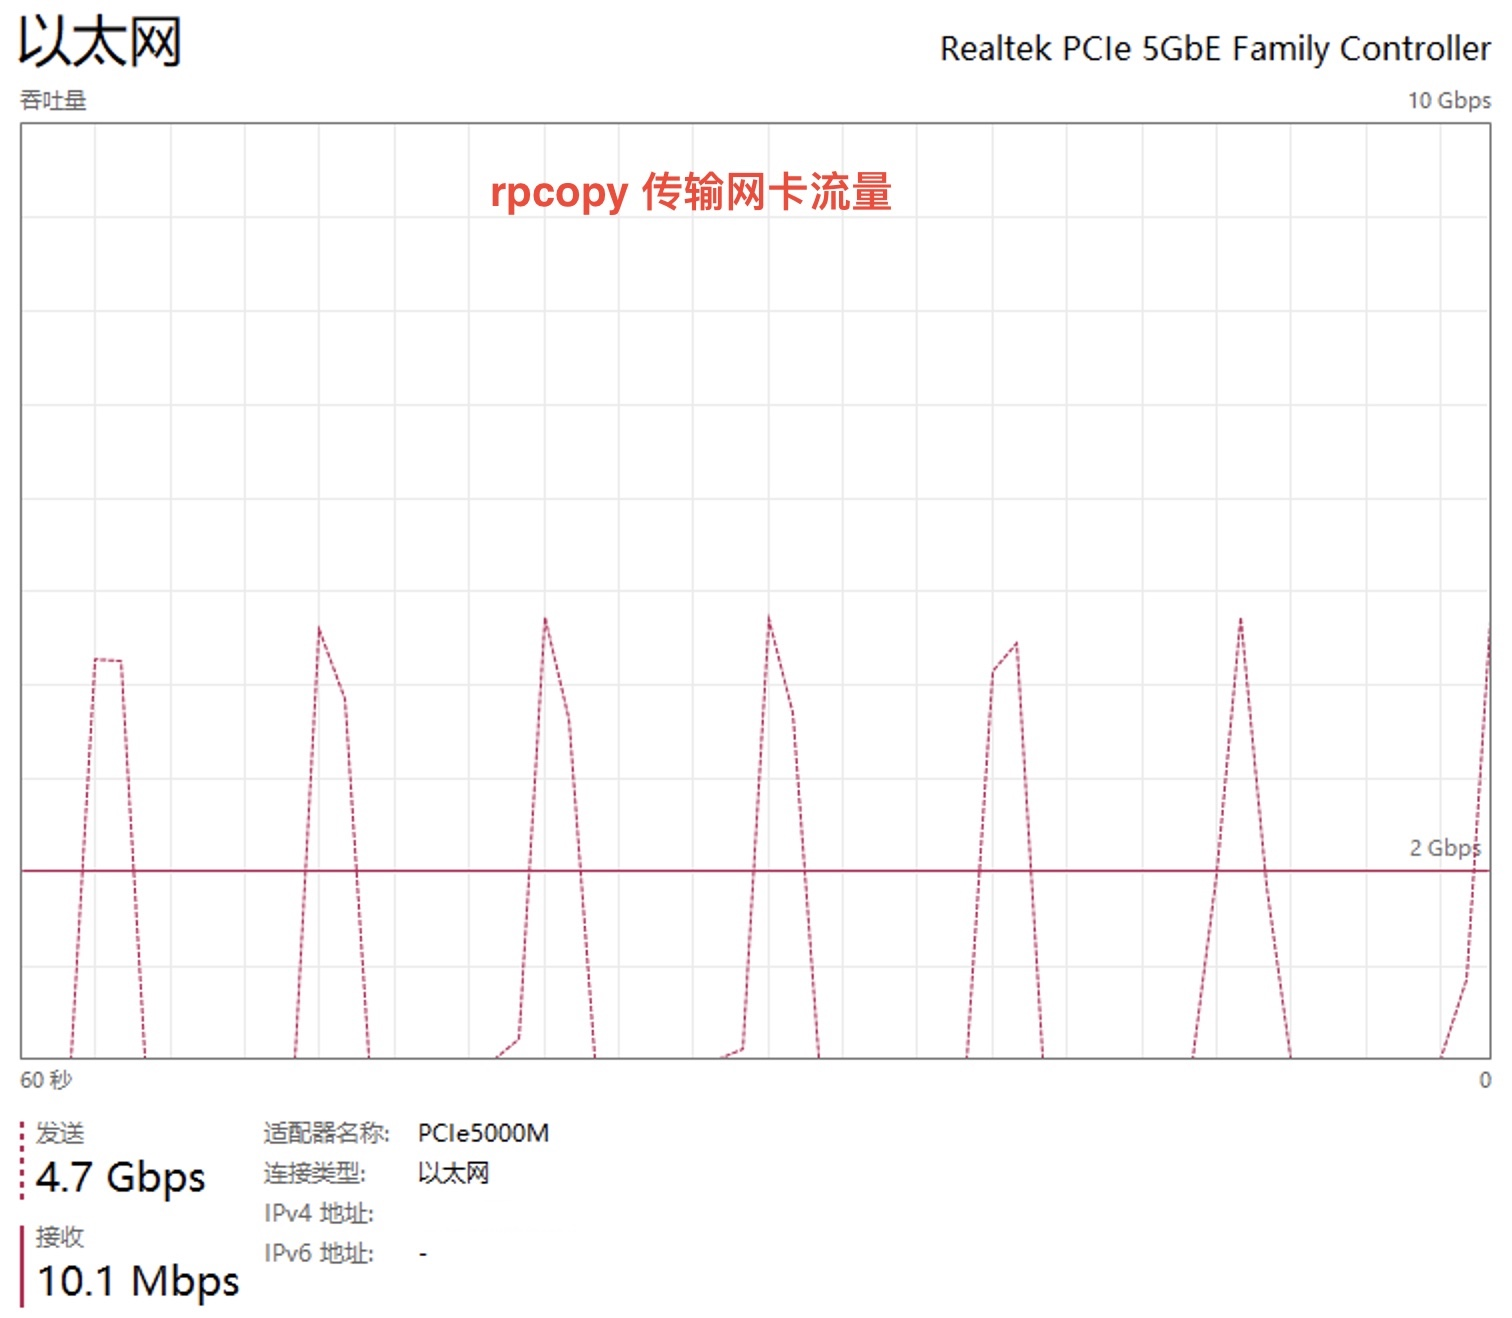
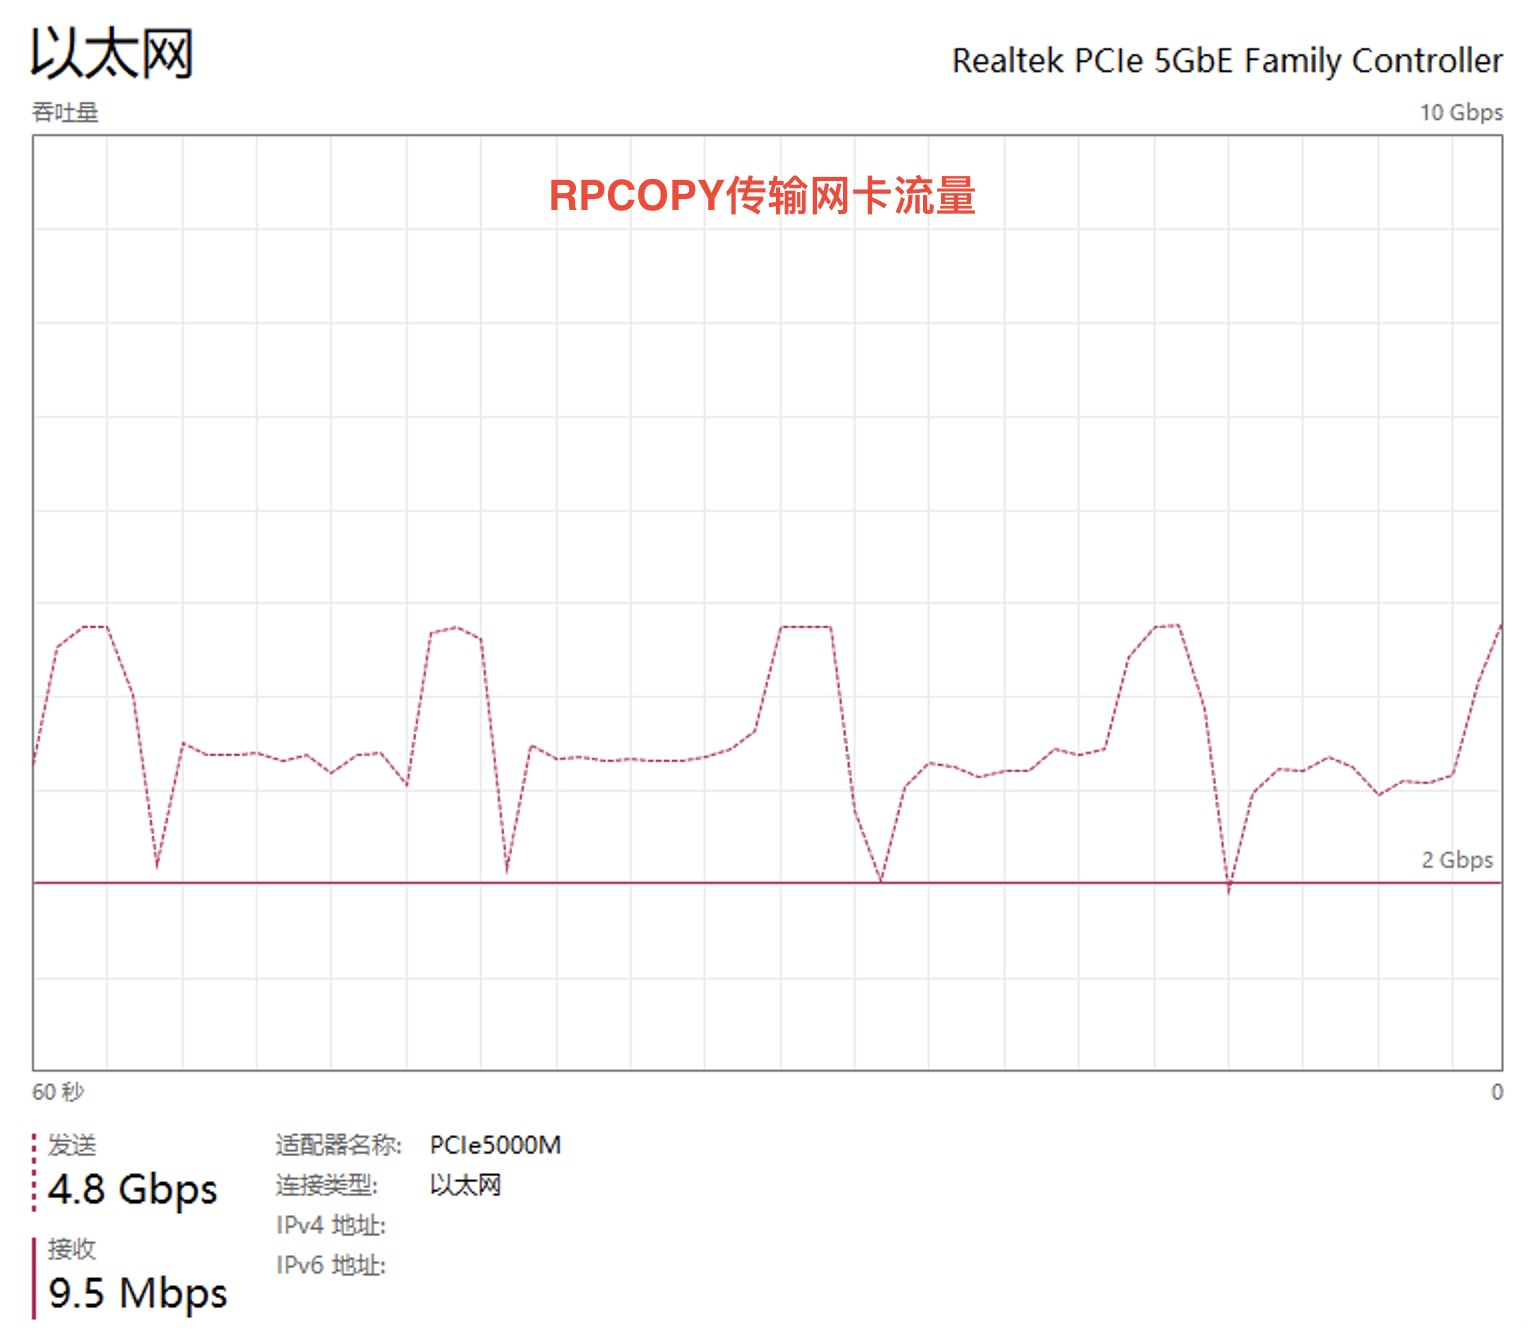
-

diff --git a/cmd/var.go b/cmd/var.go
@@ -14,7 +14,7 @@ const (
 	// < 8 MB :use boltdb
 	// >= 8 MB use rawfile
 	smallFileSize    int64 = 2 << 20
-	mediumFileSize64 int64 = 256 << 20
+	mediumFileSize64 int64 = 2048 << 20
 	//
 	chunkSize int = 32 << 20
 	//

diff --git a/README.md b/README.md
@@ -17,9 +17,9 @@
 
 
 
-| test data（5000MB有线网卡 传输） |    rpcopy     |    scp  |
-|--------------------------|---------------|---------|
-| 4637 个文件，共 10.8 GB    |     74 秒    |  685 秒 |
+| test data（5000MB有线网卡 传输） |    rpcopy     |    scp   |
+|-------------------------------|---------------|----------|
+| 14959 个文件，共 34.2 GB        |     134 秒    |  183 秒  |
 
 ![RPCOPY](nic-rpcopy.jpg "rpcopy")
 ![SCP](nic-scp.jpg "scp")